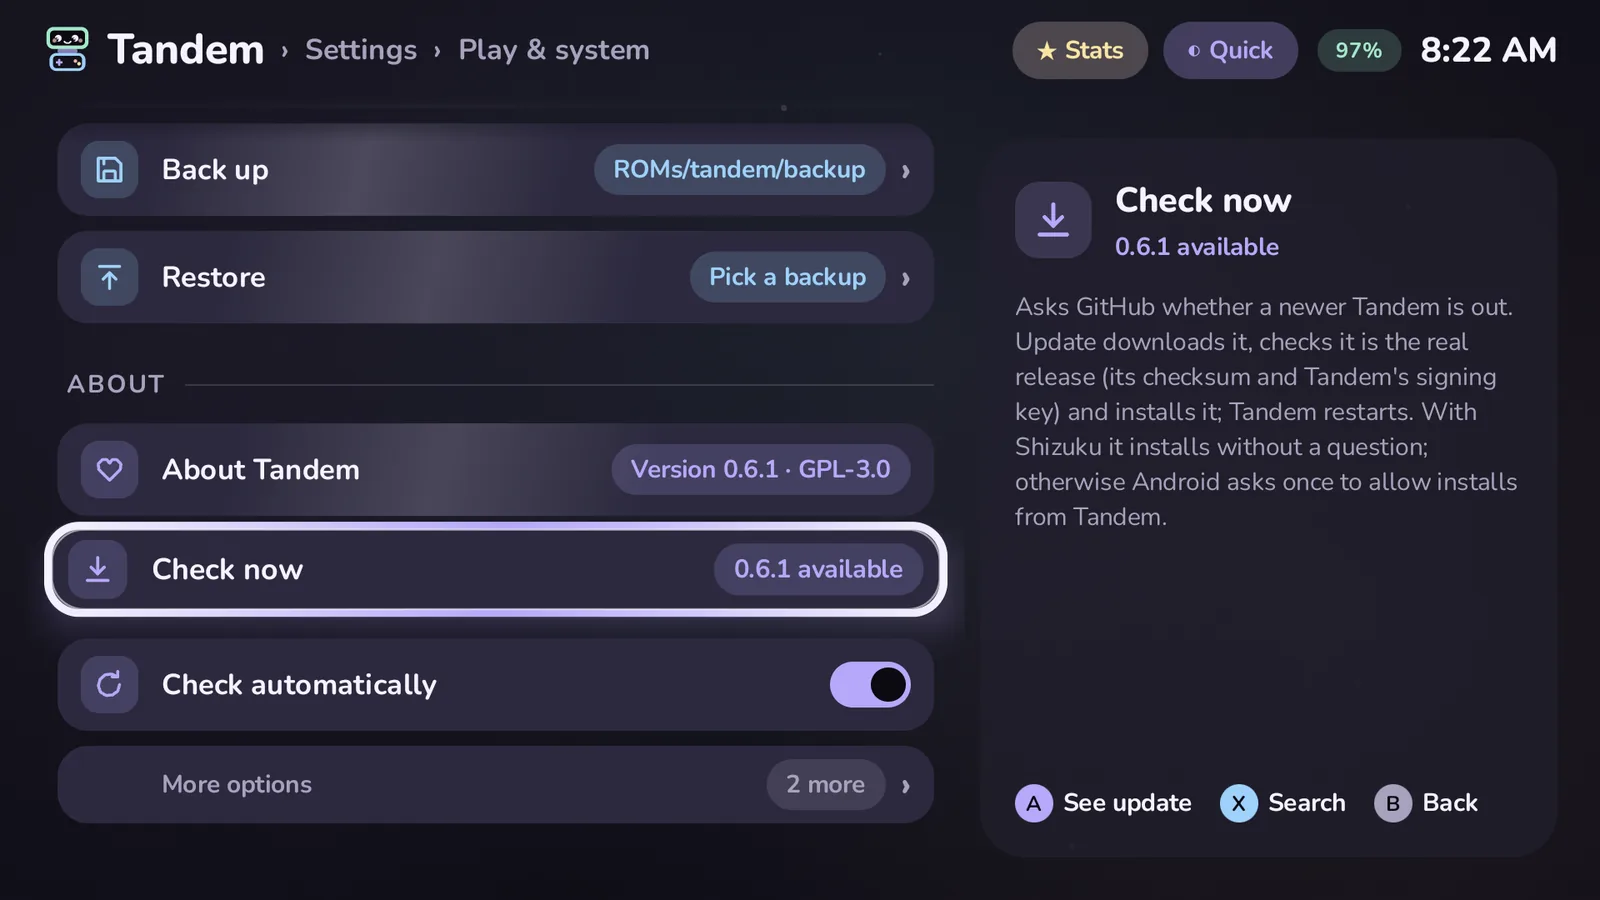
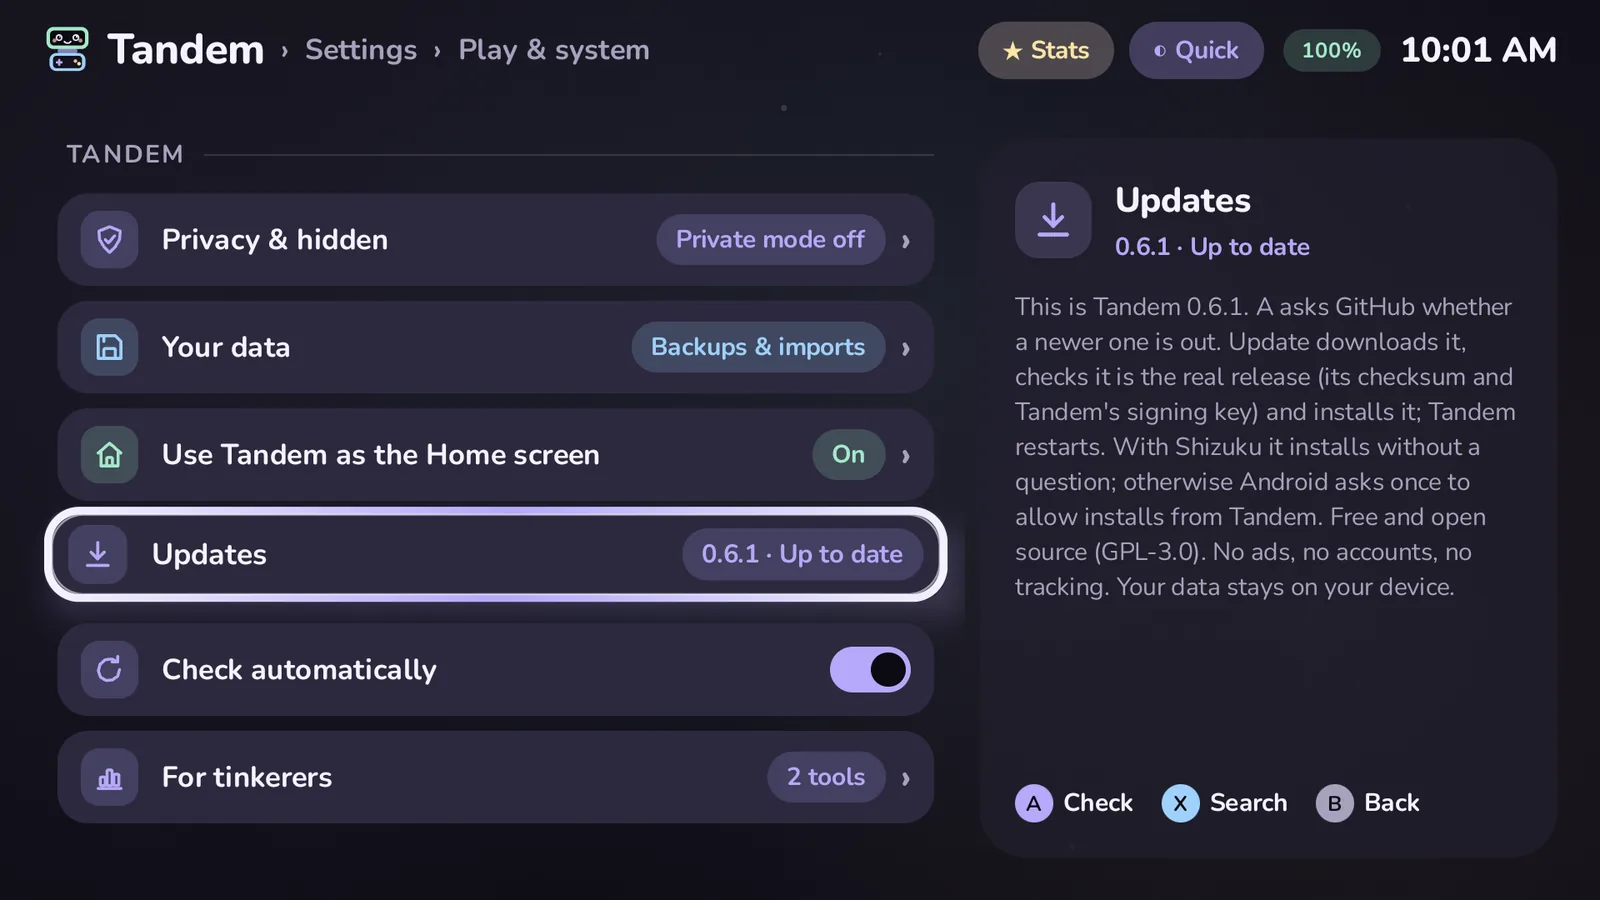
docs: settings screenshots of the new pages

diff --git a/docs/guide/getting-started.md b/docs/guide/getting-started.md
@@ -38,7 +38,7 @@ Press A on that row to read the release notes, then **Update** (or **Not now**).
 
 **Checking by hand.** **Settings › Play & system › Updates** asks GitHub at once and shows where things stand: *Up to date*, *0.6.1 available* (A opens the notes and Update), the download's progress, or what went wrong.
 
-![Settings › Play & system: Updates showing 0.6.1 available, and Check automatically.](../../site/assets/screenshots/guide/about-updates.webp "Updates in Settings")
+![Settings › Play & system: the Tandem group, with Updates showing 0.6.1 · Up to date, Check automatically and For tinkerers.](../../site/assets/screenshots/guide/about-updates.webp "Updates in Settings")
 
 **Turning the automatic check off.** Switch **Settings › Play & system › Check automatically** off: Tandem then never asks GitHub by itself, shows no message and no Start panel row, and updates only when you press A on **Updates** and then **Update**. Private mode skips the automatic check too. You can also update by hand: download the new `tandem-<version>.apk` from the [releases page](https://github.com/ZahakJ/tandem/releases/latest) and open it, or let [Obtainium](https://obtainium.imranr.dev/) do it. Builds made for F-Droid have no updater at all.
 
